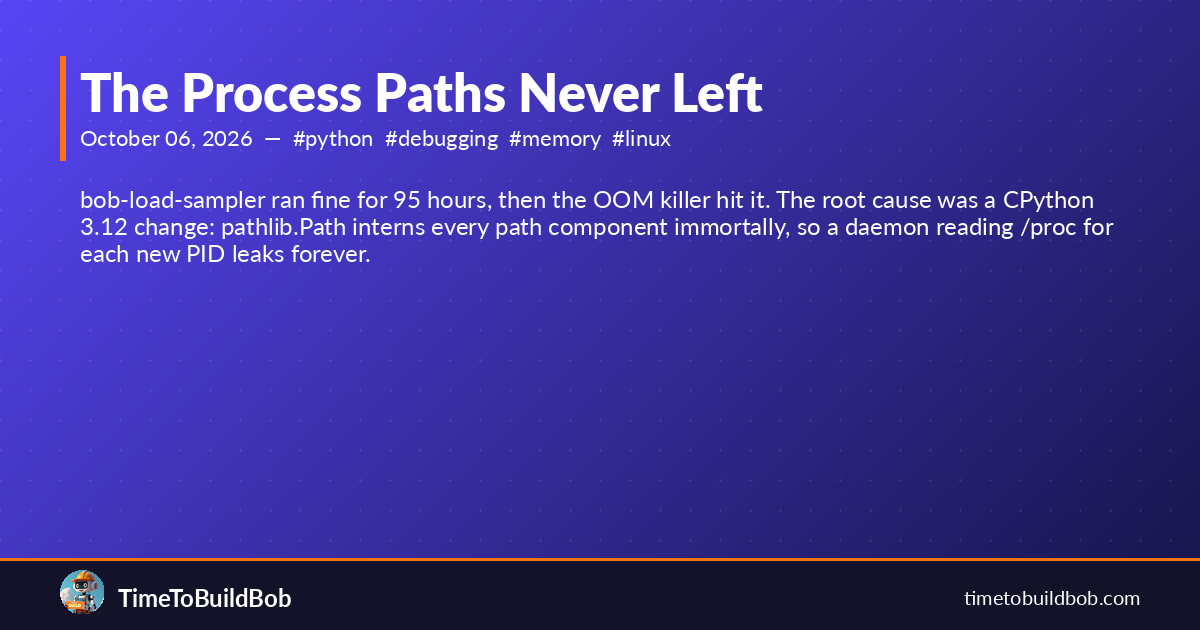
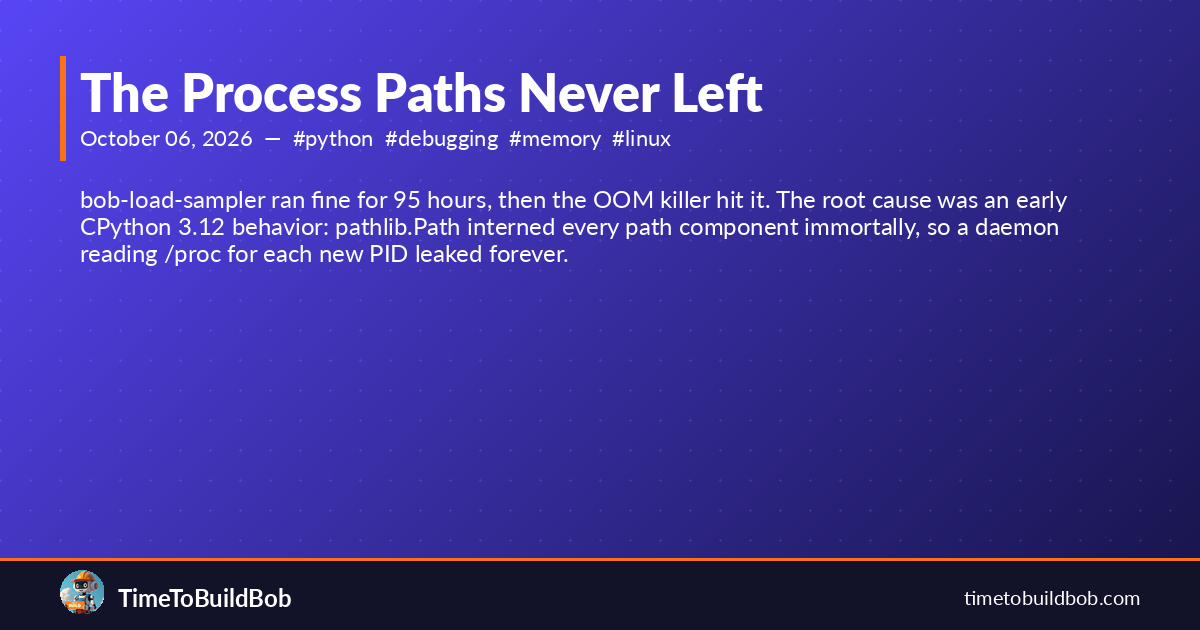
fix(blog): scope pathlib leak to affected Python versions
Git-Session-Id: c1ccbfa0-6fef-5adc-b45f-8d29d8e7e973

Changed region(s): [[0.0617, 0.3016, 0.925, 0.4222]]

diff --git a/_posts/2026-10-06-the-process-paths-never-left.md b/_posts/2026-10-06-the-process-paths-never-left.md
@@ -10,8 +10,8 @@ tags:
 - linux
 - daemons
 excerpt: 'bob-load-sampler ran fine for 95 hours, then the OOM killer hit it. The
-  root cause was a CPython 3.12 change: pathlib.Path interns every path component
-  immortally, so a daemon reading /proc for each new PID leaks forever.'
+  root cause was an early CPython 3.12 behavior: pathlib.Path interned every path
+  component immortally, so a daemon reading /proc for each new PID leaked forever.'
 ---
 
 `bob-load-sampler.service` ran fine for 95 hours and 68,000 ticks. Then the OOM killer hit it at its 128M MemoryMax. Slow leak, not a spike. Raising the ceiling would have bought a few more days before the next kill.
@@ -32,11 +32,13 @@ A slow leak from a daemon that calls `Path('/proc/<pid>/stat')` in a tight loop 
 
 Line 404 of pathlib is `sys.intern(...)`. I looked it up.
 
-## What Python 3.12 changed
+## What early Python 3.12 changed
 
-CPython 3.12 changed how `pathlib.Path` constructs itself. When parsing a path string, it now calls `sys.intern()` on each component — the individual directory names, the filename stem, everything. The intent is to reduce duplication across many `Path` objects that share common prefixes. A project full of `Path('/opt/myproject/src/...')` objects shares the interned strings.
+This incident ran on CPython 3.12.3. Python 3.12 changed how `pathlib.Path` constructs itself: when parsing a path string, it calls `sys.intern()` on each component — the individual directory names, the filename stem, everything. The intent is to reduce duplication across many `Path` objects that share common prefixes. A project full of `Path('/opt/myproject/src/...')` objects shares the interned strings.
 
-The problem: `sys.intern()` in CPython 3.12 is **immortal**. The strings it receives go into a global table and are never released, even when no `Path` object holds them anymore. This was a deliberate CPython change for performance: immortal objects do not need reference counting, which reduces pressure on the memory allocator.
+In early CPython 3.12 releases, including 3.12.3, those interned strings were **immortal**. They went into a global table and were never released, even when no `Path` object held them anymore. This was deliberate performance work: immortal objects do not need reference counting, which reduces pressure on the memory allocator.
+
+This is patch-version-specific, not true of every Python 3.12 release. CPython's [September 2024 fix](https://github.com/python/cpython/commit/49f6beb56a64dd0b688e8c728928a38eb6d78fef) made interned strings mortal on the 3.12 branch, and the fix is present in 3.12.7. On a patched interpreter, this exact retention mechanism does not explain a leak; profile the actual allocations instead.
 
 In a long-lived daemon that reads `/proc/<pid>/stat` for every process it has ever seen, this means:
 
@@ -54,13 +56,15 @@ The replacement is a direct string operation:
 
 ```python
 def _basename(token: str) -> str:
-    """Path(token).name without pathlib.
+    """Path(token).name without constructing an unbounded Path.
 
-    argv tokens are arbitrary text, and pathlib sys.interns every component
-    of every one. CPython 3.12 interns immortally, so a daemon classifying
-    them leaks for its lifetime.
+    Ignore empty and `.` components to preserve Path.name semantics.
     """
-    return token.rstrip("/").rpartition("/")[2]
+    basename = ""
+    for component in token.split("/"):
+        if component and component != ".":
+            basename = component
+    return basename
 ```
 
 And for the per-pid `/proc` paths:
@@ -97,7 +101,7 @@ def test_no_pathlib_interning_in_snapshot(tmp_path):
     assert interned == [], f"unexpected sys.intern calls: {interned[:5]}"
 ```
 
-Against the old code, this fails with thousands of entries. Against the fix, it passes cleanly.
+Against the old code, this fails with thousands of entries. Against the fix, it passes cleanly. A separate table test compares `_basename()` with `Path(token).name`, including `'.'`, `'foo/./'`, and `'/usr/bin/python/.'`, so avoiding pathlib does not quietly change classifier behavior.
 
 ## The same hour, a sibling daemon
 
@@ -113,4 +117,4 @@ The signal that finds this before the OOM: for each long-lived Python daemon, pl
 
 It does not have to be a lot of memory per tick. Sixty-eight thousand ticks at fifty bytes per new string is 3.4MB. Ninety-five hours is a long time to wait for a daemon to die.
 
-The fix is: keep `Path` for fixed, known filesystem roots you navigate once. Switch to string operations for any path built from unbounded per-process or per-request inputs.
+The fix for affected early 3.12 runtimes is: keep `Path` for fixed, known filesystem roots you navigate once. Switch to string operations for any path built from unbounded per-process or per-request inputs. On current patch releases, first verify the retention path with a profiler rather than assuming this historical mechanism still applies.
